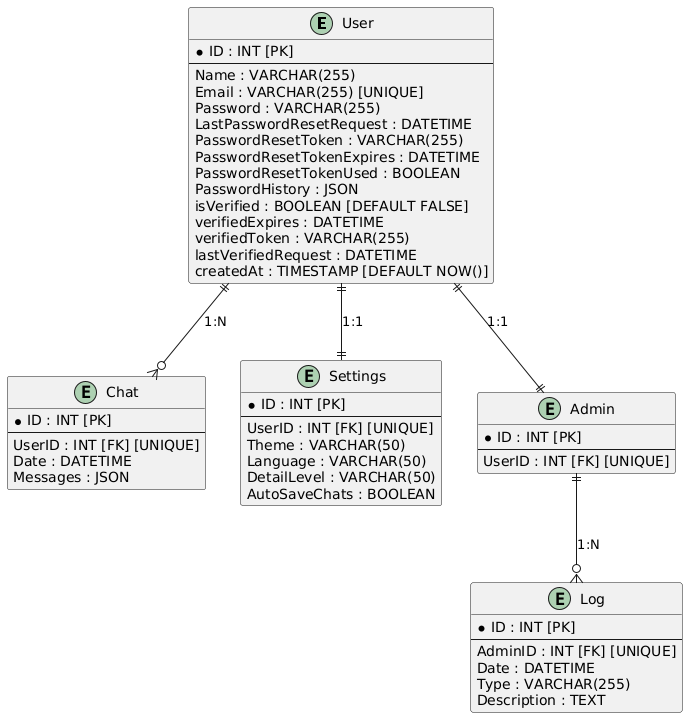
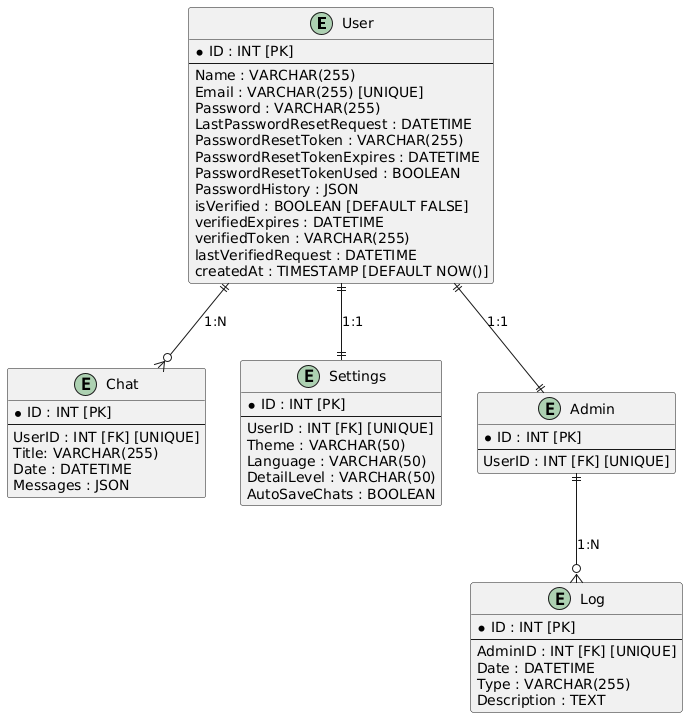
submodulos actualizados

Changed region(s): [[0.0, 0.5209, 0.3052, 0.7047], [0.2137, 0.4596, 0.2747, 0.5209]]

diff --git a/conceptual_model/uml_diagram.py b/conceptual_model/uml_diagram.py
@@ -24,6 +24,7 @@ uml.node('User', '''<<table border="0" cellborder="1" cellspacing="0">
 
 uml.node('Chat', '''<<table border="0" cellborder="1" cellspacing="0">
 <tr><td port="header" bgcolor="#A9DFBF"><b>Chat</b></td></tr>
+<tr><td align="left">Title</td></tr>
 <tr><td align="left">Date</td></tr>
 <tr><td align="left">Messages</td></tr>
 </table>>''', shape='plaintext', style='rounded')

diff --git a/README.md b/README.md
@@ -47,12 +47,10 @@
     - Los usuarios deben poder ver su historial de chats guardados y seleccionar uno para revisarlo.
 
 7. **Configuraciones del usuario:**
-    - La configuración debe permitir habilitar/deshabilitar sugerencias automáticas al escribir en el chat.
     - La configuración debe permitir elegir el nivel de detalle de las respuestas del chatbot (básico o avanzado).
     - La configuración debe incluir la posibilidad de activar o desactivar el almacenamiento automático de chats (chats temporales).
     - La configuración debe permitir cambiar el idioma del chatbot.
     - La configuración debe permitir al usuario elegir entre un tema claro y oscuro.
-    - La configuración debe permitir personalizar el tiempo máximo de inactividad antes de cerrar la sesión automáticamente.
 
 8. **Layout:**
     - **Header:**
